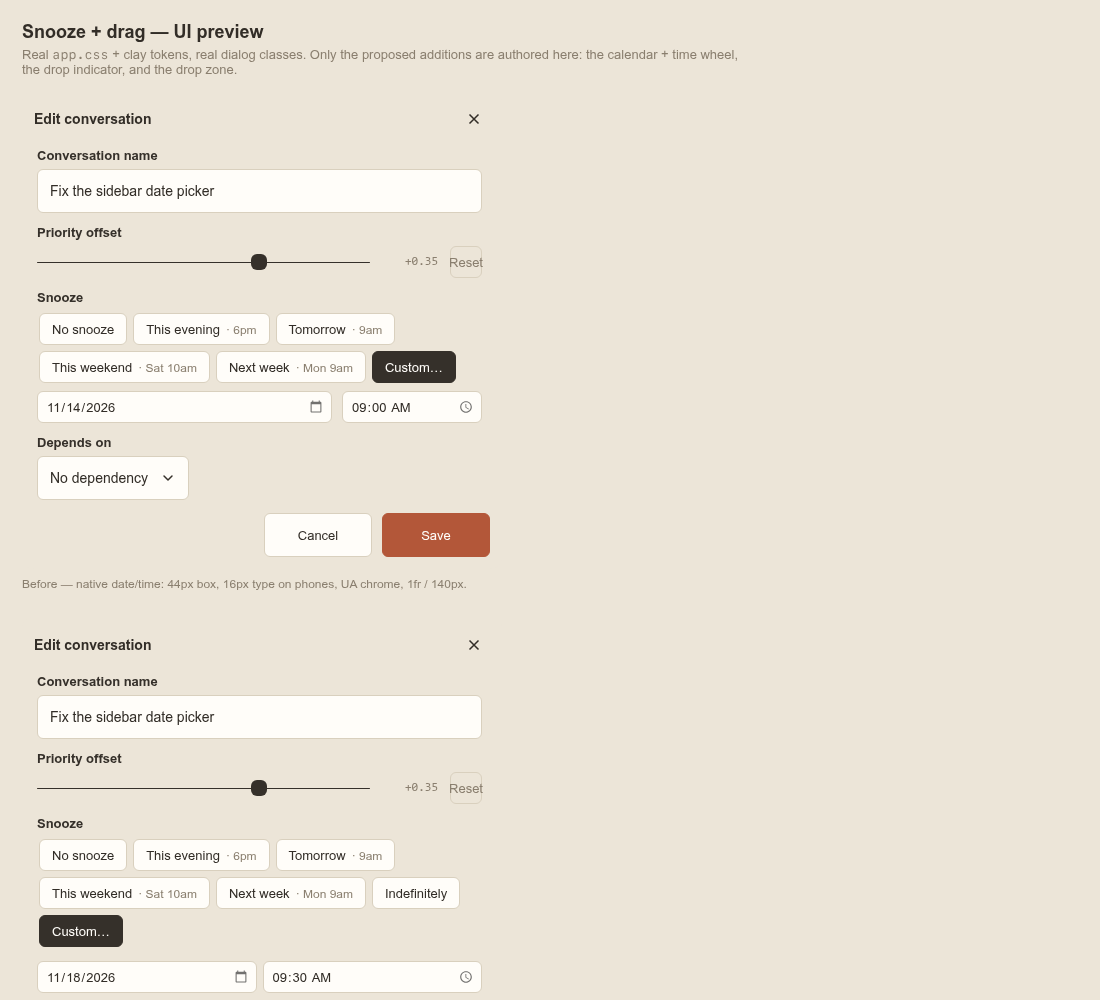
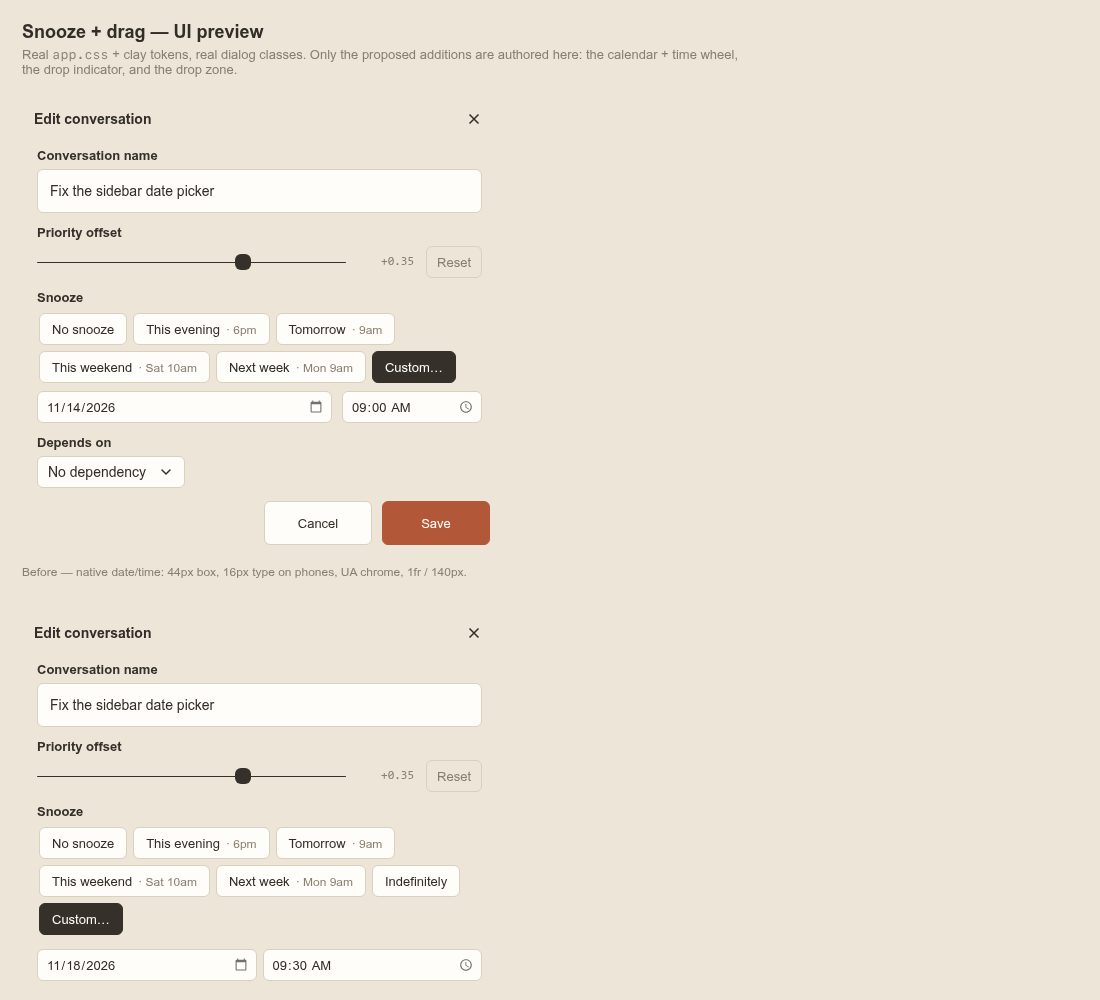
Fit text buttons inside dialogs and put the dependency picker on the chip plane

diff --git a/codoxear/static/app.css b/codoxear/static/app.css
@@ -3410,6 +3410,17 @@ select {
         height: var(--dialog-control-h);
         min-height: var(--dialog-control-h);
       }
+      /* Text-bearing chrome is not icon-only chrome. The square contract above
+         is for glyph buttons; applied to a text button it produced a 32px box
+         whose label ("Reset") overflowed it. */
+      .formViewer .icon-btn.text-btn,
+      .queueViewer .icon-btn.text-btn,
+      .diagViewer .icon-btn.text-btn,
+      .helpViewer .icon-btn.text-btn {
+        width: auto;
+        min-width: 46px;
+        padding: 0 var(--space-4);
+      }
       .formViewer .choiceChip {
         position: relative;
         width: auto;
@@ -3504,6 +3515,14 @@ select {
         align-items: center;
         justify-content: space-between;
         gap: var(--space-5);
+      }
+      /* The dependency picker is a field on the same plane as the snooze
+         date/time fields: chip height, and no vertical padding — 12px top and
+         bottom cannot fit a 32px box and would clip the label. */
+      #editViewer .dialogPickerBtn {
+        height: var(--dialog-control-h);
+        min-height: var(--dialog-control-h);
+        padding: 0 var(--space-4);
       }
       .sidePickerBtn {
         width: 100%;

diff --git a/.memory/tasks/2026-11-13-sidebar-snooze-and-drag/mockup.html b/.memory/tasks/2026-11-13-sidebar-snooze-and-drag/mockup.html
@@ -46,6 +46,9 @@
     grid-template-columns: minmax(0, 1fr) minmax(0, 1fr);
     gap: var(--space-2);
   }
+  /* mirrors of the two #editViewer-scoped fixes (a mock can hold one id only) */
+  .mockDialog .icon-btn.text-btn { width: auto; min-width: 46px; padding: 0 var(--space-4); }
+  .mockDialog .dialogPickerBtn { height: var(--dialog-control-h); min-height: var(--dialog-control-h); padding: 0 var(--space-4); }
   .mockDialog .snoozeInputCell {
     display: flex; align-items: center; min-width: 0; min-height: var(--ctl);
   }

diff --git a/.memory/tasks/2026-11-13-sidebar-snooze-and-drag/OPS.md b/.memory/tasks/2026-11-13-sidebar-snooze-and-drag/OPS.md
@@ -395,3 +395,23 @@ and the plan are corrected.
 
 Not proven, and not claimed: physical iOS Safari / Android Chrome (intrinsic field height, real touch
 and scroll arbitration), and a rapid second tap inside the 550ms post-drop suppression window.
+
+## 2026-11-13 — follow-up from the deployed app: Reset label, Depends on box
+
+User report with a screenshot: the Reset button's margin is wrong and the "Depends on" box is still large.
+
+Diagnosis by measurement in Chromium against the real `app.css`:
+- Reset is `<button class="icon-btn text-btn subtleBtn">Reset</button>`. The dialog control contract
+  (`.formViewer .icon-btn`, specificity 0,2,0) forces **every** icon button in a dialog to a 32×32
+  square, which is right for glyph chrome and wrong for a text button: the label measured 36.6px in a
+  32px box with 10px padding, so it spilled outside its own border — the "wrong margin". `.icon-btn.text-btn`
+  already had the right geometry (`width: auto; min-width: 46px; padding: 0 10px`) but lost on specificity.
+  Fix: exempt `.text-btn` in the four dialog viewers, next to the square contract. Measured after:
+  59×32 box, text 36.6px, fits (content box 37px).
+- "Depends on" is `.filePickerBtn.dialogPickerBtn`, which `.formViewer .dialogPickerBtn` pins to
+  `--ctl` = 44px — the field plane, beside 32px chips and the new 32px date/time fields. Fix:
+  `#editViewer .dialogPickerBtn` at `--dialog-control-h` with `padding: 0 var(--space-4)` (12px of
+  vertical padding cannot fit a 32px box). Measured after: 32px, `scrollWidth == clientWidth`.
+
+`scripts/docker_sidebar_snooze_drag_verify.sh` step 8 now asserts both: the Reset label must fit its
+content box, and the dependency picker's height must equal the chip height with no horizontal clipping.
